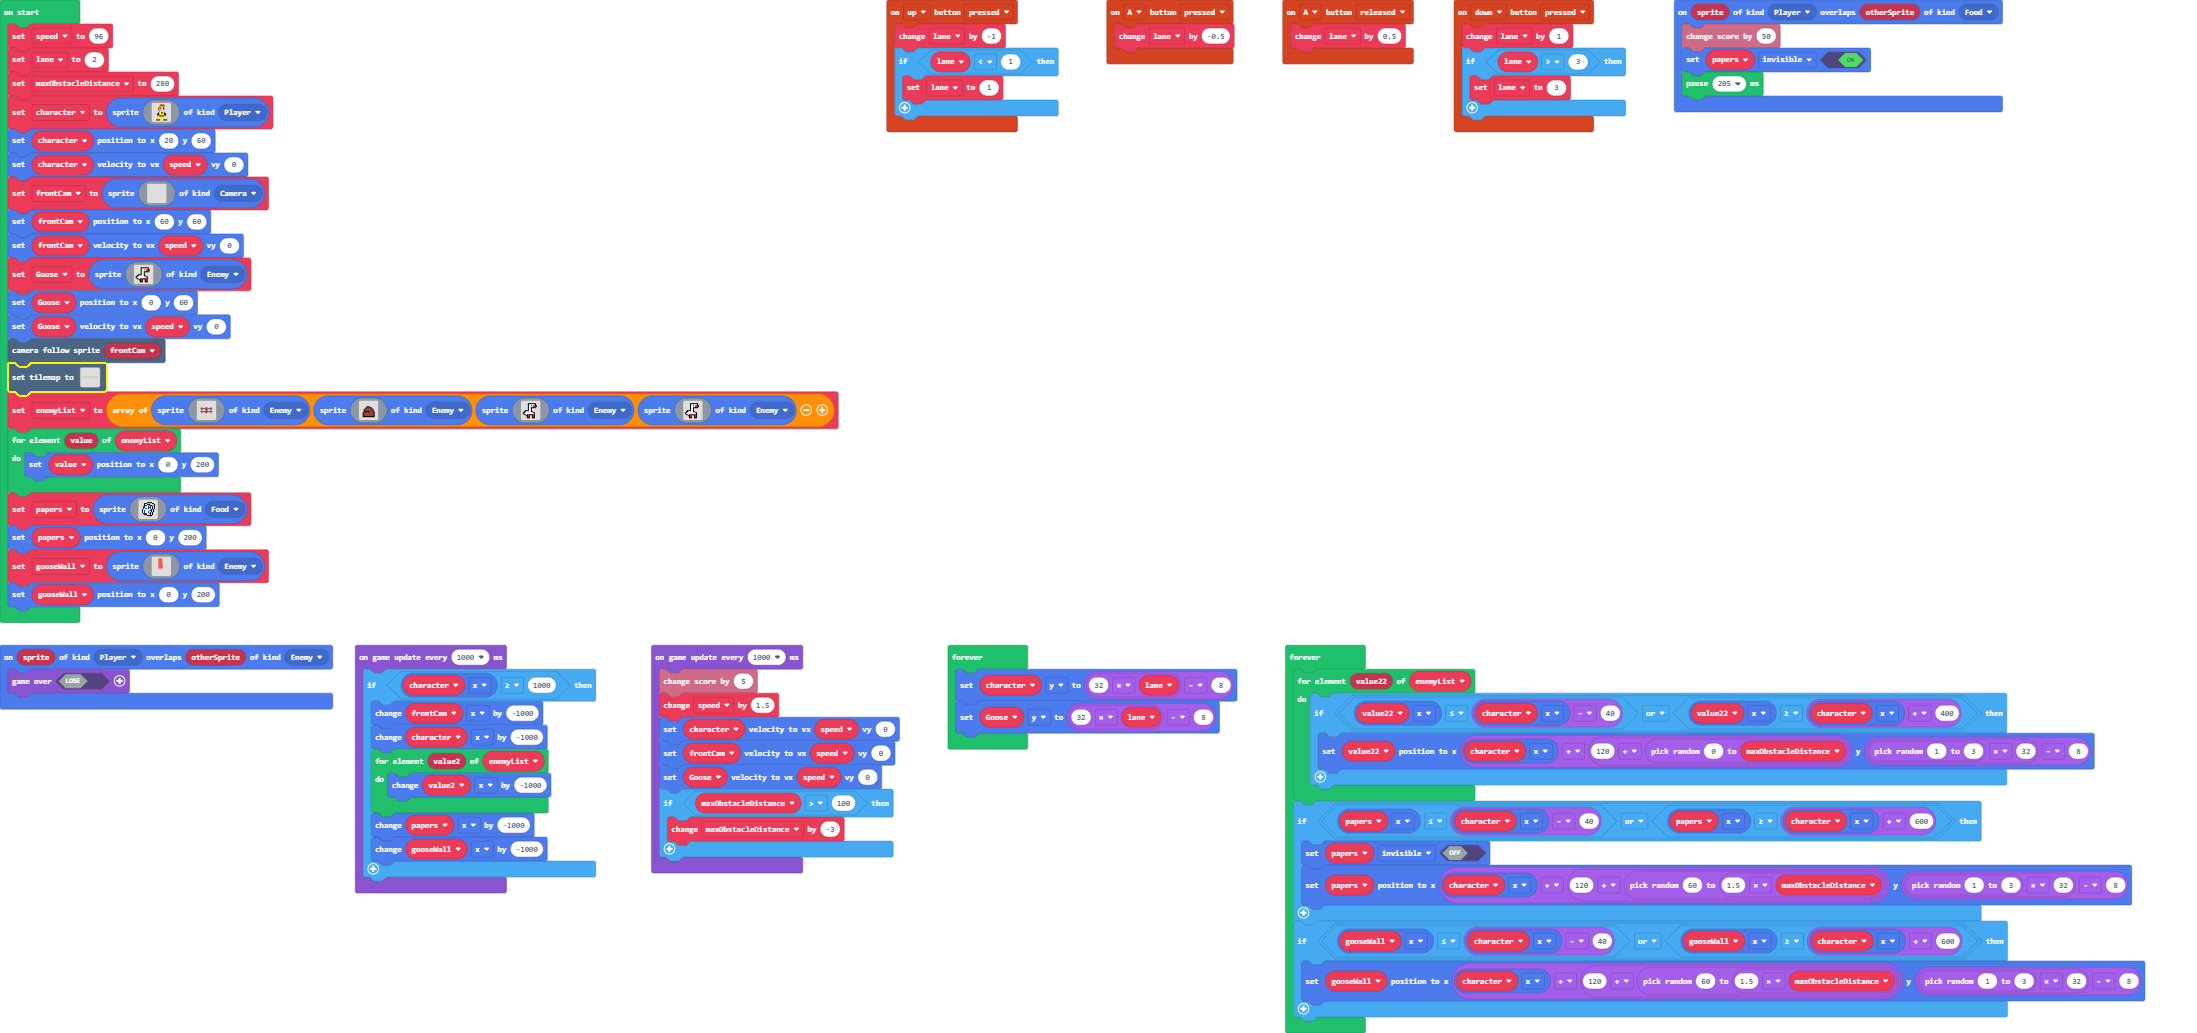
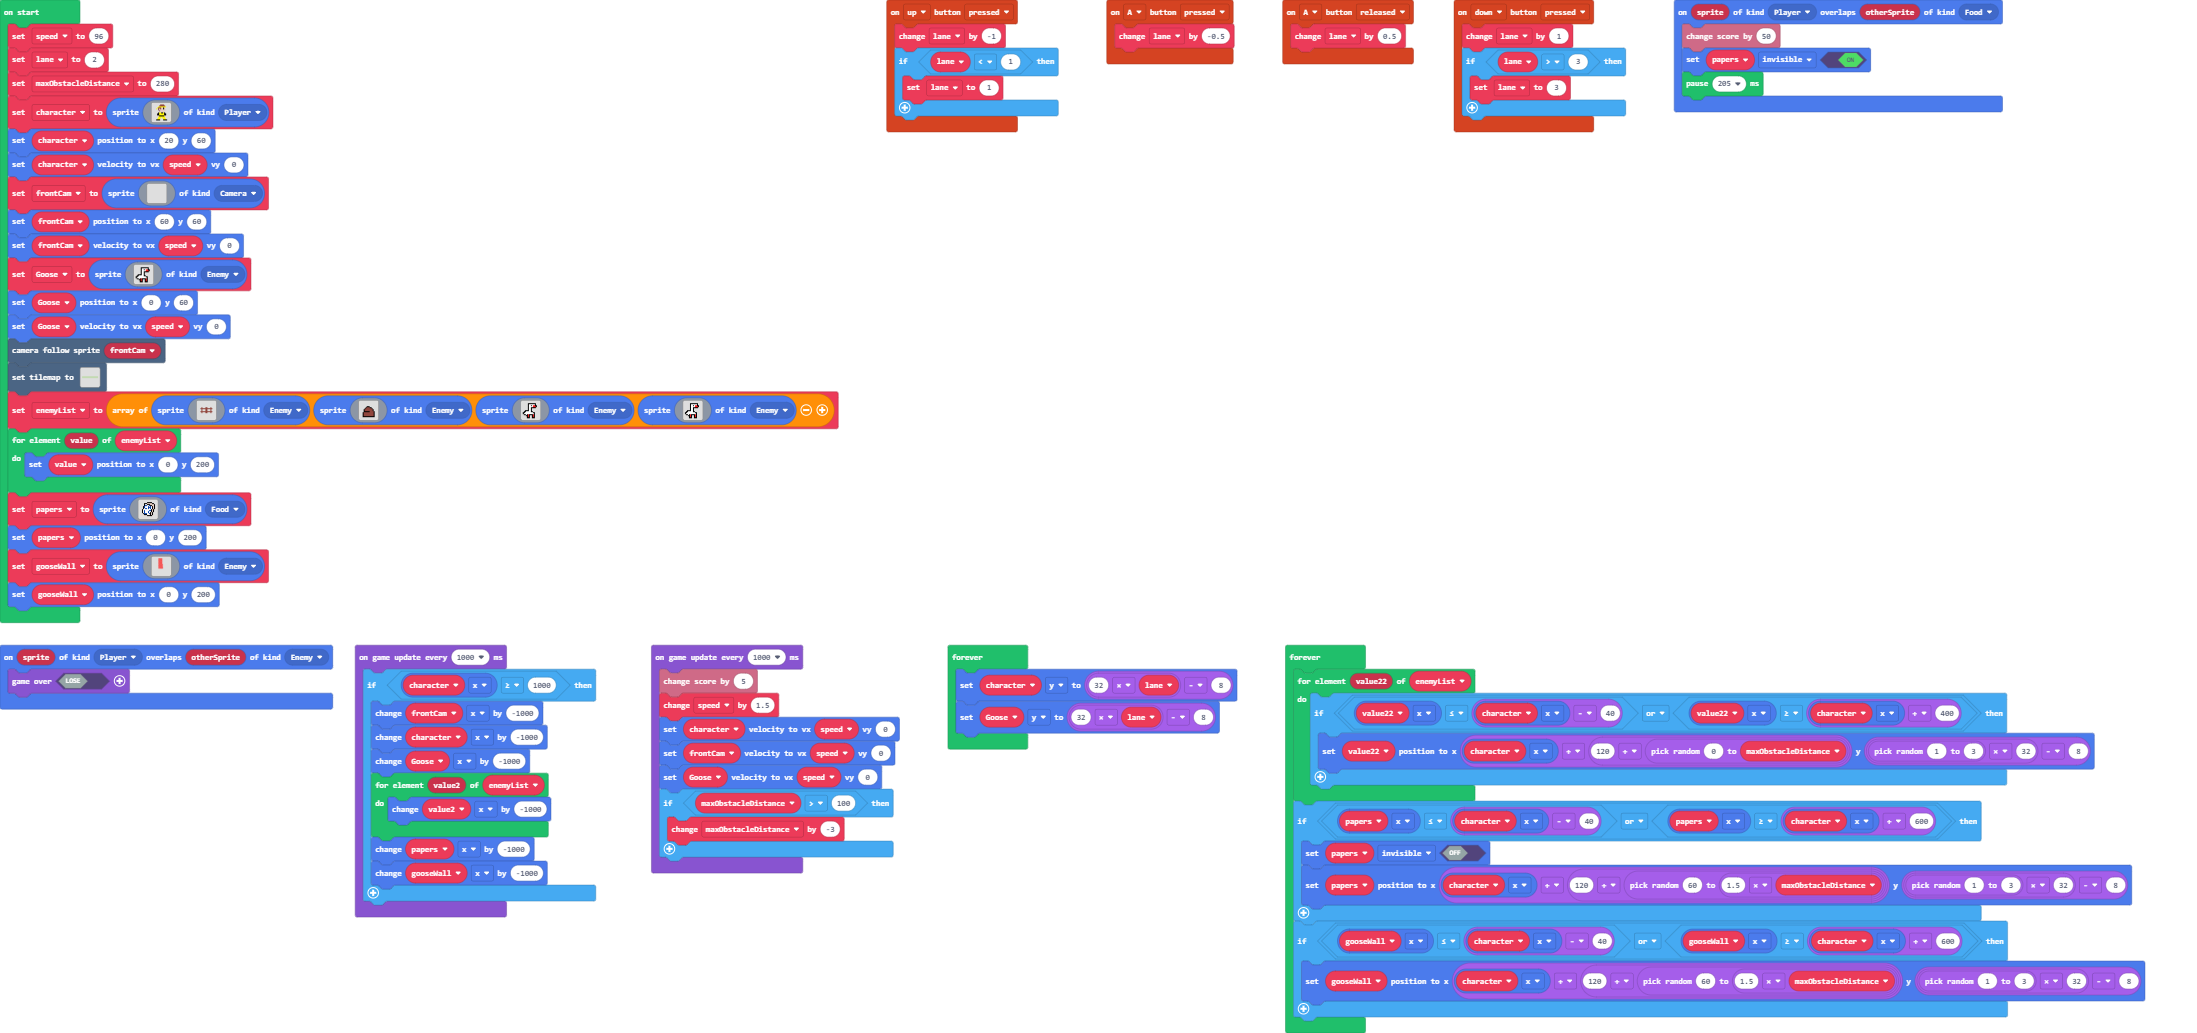
Update main.blocks, main.ts

Changed region(s): [[0.1548, 0.7125, 0.2786, 0.8984]]

diff --git a/main.ts b/main.ts
@@ -234,6 +234,7 @@ game.onUpdateInterval(1000, function () {
     if (character.x >= 1000) {
         frontCam.x += -1000
         character.x += -1000
+        Goose.x += -1000
         for (let value2 of enemyList) {
             value2.x += -1000
         }
